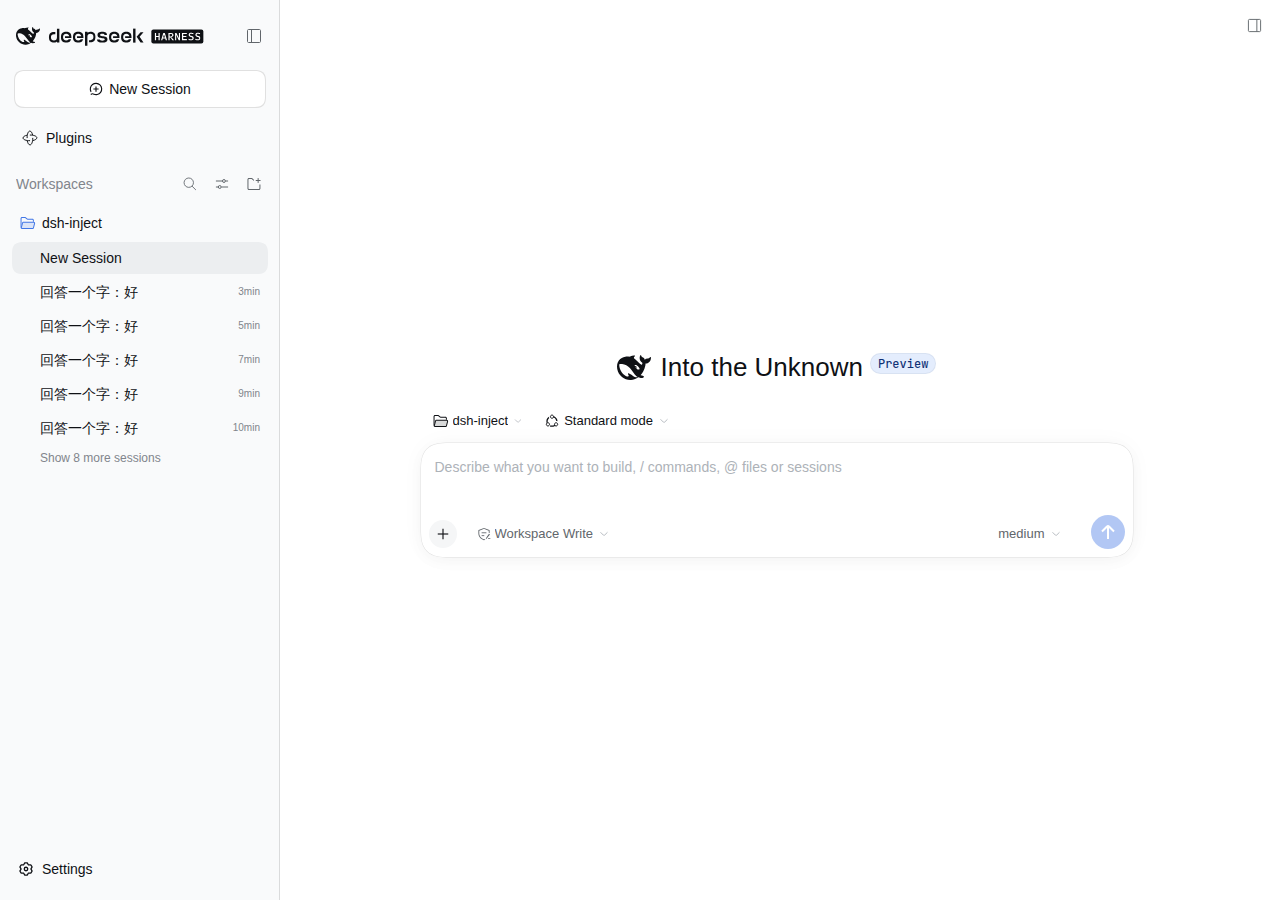
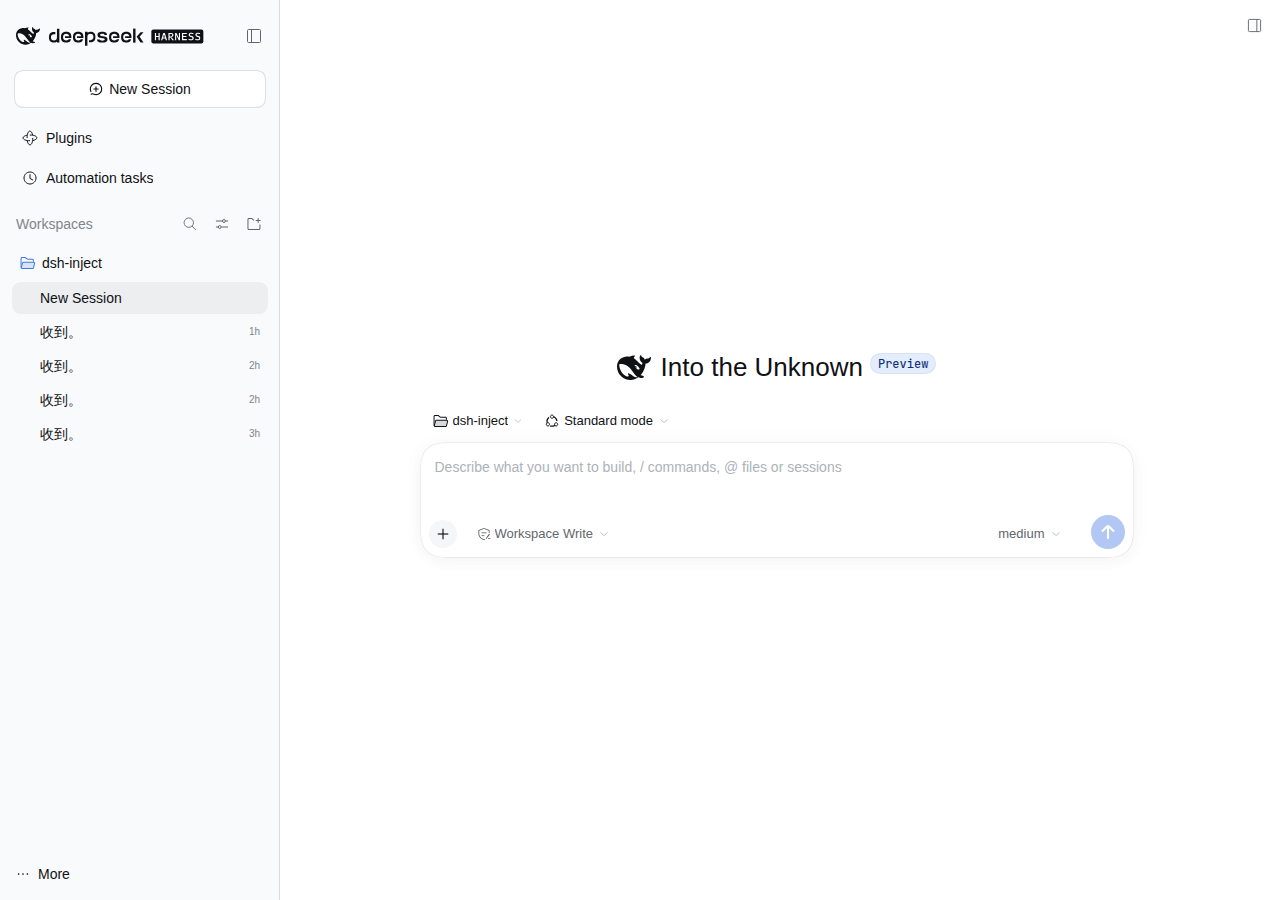
feat(client): drop the preset command row and explain the advanced options
- src/client/settings-panel.jsx: remove the "enable command" row from the
  preset header (the command is documented in the README) along with the
  now-unused CommandPill; restore the explanations under Advanced Options so
  the always-on switch and its two scopes stay readable.
- src/client/styles.js: drop the pill styles.
- e2e/lib/settings.mjs: one shared openSettings() helper - Settings moved
  behind the top-bar More menu, so four scripts could no longer reach it.
- .gitignore: scope the lib rule to the repository root so e2e/lib is kept.
- shots/: refresh the settings, dialog and manual-save screenshots.

diff --git a/src/client/settings-panel.jsx b/src/client/settings-panel.jsx
@@ -166,22 +166,6 @@ function withUniqueIds(existing, incoming) {
   });
 }
 
-function CommandPill({ command }) {
-  const [copied, setCopied] = useState(false);
-  const copy = e => {
-    e.stopPropagation();
-    navigator.clipboard?.writeText(command).then(() => {
-      setCopied(true);
-      setTimeout(() => setCopied(false), 1600);
-    }).catch(() => undefined);
-  };
-  return (
-    <span className="inject-code-pill" onClick={copy} title="点击复制启用命令">
-      <span>{copied ? "✓ 已复制" : command}</span>
-    </span>
-  );
-}
-
 function RuleEditor({ rule, onChange, onRemove, onClone, onMoveUp, onMoveDown, isFirst, isLast }) {
   const patch = values => onChange({ ...rule, ...values });
   const toggleRole = role => {
@@ -417,10 +401,6 @@ function PresetCard({ preset, takenIds, onChange, onRemove, onClone, onExport, o
             </div>
           </div>
 
-          <div className="preset-head-command">
-            <span className="inject-field-label">启用命令</span>
-            <CommandPill command={`/inject on ${preset.id}`} />
-          </div>
         </div>
       </div>
 
@@ -463,6 +443,9 @@ function PresetCard({ preset, takenIds, onChange, onRemove, onClone, onExport, o
               {preset.models?.length ? ` · 限定模型 (${preset.models.length})` : ""}
             </summary>
             <div className="inject-advanced-body">
+              <p className="hint-text" style={{ margin: "0 0 12px" }}>
+                以下决定预设何时自动生效；不勾「总是启用」时，预设只在会话里手动开启。
+              </p>
               <div className="row" style={{ gap: 10, marginBottom: 12, alignItems: "center", flexWrap: "wrap" }}>
                 <label
                   className={`inject-default-toggle ${preset.defaultEnabled ? "on" : ""}`}
@@ -475,6 +458,9 @@ function PresetCard({ preset, takenIds, onChange, onRemove, onClone, onExport, o
                   />
                   总是启用
                 </label>
+                <span className="hint-text" style={{ margin: 0 }}>
+                  勾选后无需切换模式，匹配的会话默认启用本预设。
+                </span>
               </div>
 
               <div className="row" style={{ gap: 10, flexWrap: "wrap", alignItems: "center" }}>
@@ -501,7 +487,7 @@ function PresetCard({ preset, takenIds, onChange, onRemove, onClone, onExport, o
                   />
                 </label>
                 <span className="hint-text" style={{ margin: 0, flexBasis: "100%" }}>
-                  留空=全部；仅在「总是启用」时作为过滤条件。
+                  两个作用域都留空 = 对所有会话生效；填了则只在命中时自动启用（仅「总是启用」时作为过滤条件，例如限定某个模型才自动加载）。
                 </span>
               </div>
             </div>

diff --git a/src/client/styles.js b/src/client/styles.js
@@ -175,19 +175,6 @@ body[data-ds-dark-theme] .dsh-inject,
   background: var(--inject-brand-bg); color: var(--inject-brand);
 }
 
-/* 快捷代码药丸 */
-.dsh-inject .inject-code-pill {
-  display: inline-flex; align-items: center; gap: 6px;
-  font-family: ui-monospace, SFMono-Regular, Menlo, Consolas, monospace;
-  font-size: 11px; padding: 2px 8px; border-radius: 4px;
-  background: var(--inject-bg-input); border: 1px solid var(--inject-border);
-  color: var(--inject-text-primary); cursor: pointer; transition: all 0.15s ease;
-  user-select: all;
-}
-.dsh-inject .inject-code-pill:hover {
-  border-color: var(--inject-border-focus); background: var(--inject-btn-hover);
-}
-
 /* 预设卡片 */
 .dsh-inject .inject-preset-card {
   border: 1px solid var(--inject-border); border-radius: 12px;
@@ -214,9 +201,6 @@ body[data-ds-dark-theme] .dsh-inject,
 .dsh-inject .preset-head-row {
   display: flex; align-items: center; justify-content: space-between;
   gap: 12px; flex-wrap: wrap;
-}
-.dsh-inject .preset-head-command {
-  display: flex; align-items: center; gap: 8px; flex-wrap: wrap;
 }
 .dsh-inject .preset-body {
   padding: 16px; border-top: 1px solid var(--inject-border-subtle);
